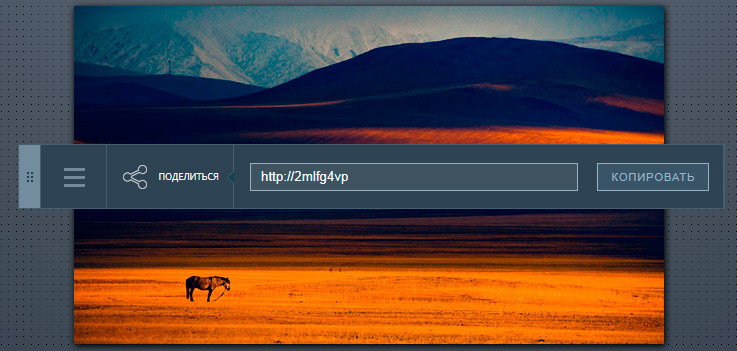
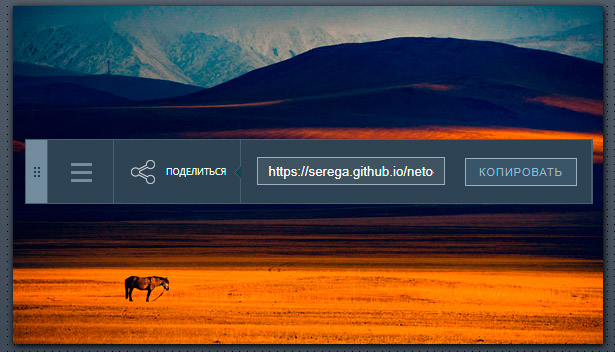
Заменены скриншоты

diff --git a/README.md b/README.md
@@ -18,7 +18,7 @@
 Приложение имет два состояния:
 - Публикация (_состояние по умолчанию_):
 
-![Состояние по умолчанию](res/default.jpg)
+![Состояние по умолчанию](res/default-sm.jpg)
 
 - Рецензирование:
 
@@ -32,11 +32,11 @@
 
 Этот режим открывается по умолчанию при открытии интерфейса: 
 
-![Состояние по умолчанию](res/default.jpg)
+![Состояние по умолчанию](res/default-sm-comments.jpg)
 
 В нём доступна всего одна функция: выбор изображения и его публикация на сервере. Изображение можно выбрать двумя способами:
-1. Кликнуть на поле ![Выбор нового файла](res/new.jpg), после чего откроется стандартный диалог выбора файла. Выбор ограничен только JPG и PNG изображениями.
-2. Перетащить файл изображения и бросить на поле. Если брошена не картинка, либо картинка в другом формате (не JPG и PNG), должно появиться сообщение об ошибке.
+1. Кликнуть на поле «Загрузить новое», после чего откроется стандартный диалог выбора файла. Выбор ограничен только JPG и PNG изображениями.
+2. Перетащить файл изображения и бросить на холст. Если брошена не картинка, либо картинка в другом формате (не JPG и PNG), должно появиться сообщение об ошибке.
 
 В обоих случаях, сразу после успешного выбора изображения, оно публикуется на сервере. Если при публикации возникает ошибка, то необходимо сообщить о ней пользователю. При этом у пользователя остаётся возможность попробовать загрузить выбранное изображение повторно, либо выбрать другое изображение.
 
@@ -74,9 +74,15 @@
 
 Где доступны два инструмента:
 
-- ![Перо](res/pen.jpg) Перо для рукописного ввода с возможностью выбора одного из пяти цветов;
+- Перо для рукописного ввода:
 
-- ![Ластик](res/eraser.jpg) Ластик.
+![Перо](res/pen.jpg)
+
+Толщина пера постоянна (`4px`), также пользователю доступен выбор одного из пяти цветов: красный (`#ea5d56`), жёлтый (`#f3d135`), зелёный (`#6cbe47`), синий (`#53a7f5`) и фиолетовый (`#b36ade`).
+
+- Ластик.
+
+![Ластик](res/eraser.jpg)
 
 3. Режим **Поделиться**:
 
